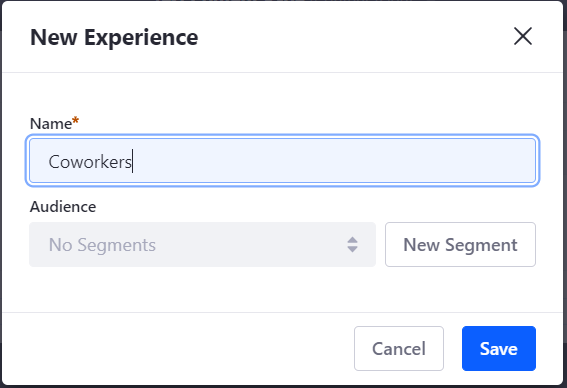
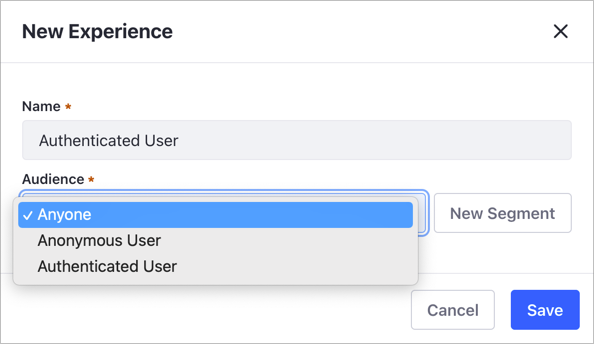
LRDOCS-8864 First draft including 7.4 Experiences functionality.

Changed region(s): [[0.0, 0.0, 1.0, 1.0], [0.8995, 0.0581, 0.9594, 0.1163]]

diff --git a/docs/dxp/7.x/en/site-building/personalizing-site-experience/experience-personalization/content-page-personalization.md b/docs/dxp/7.x/en/site-building/personalizing-site-experience/experience-personalization/content-page-personalization.md
@@ -1,21 +1,57 @@
 # Content Page Personalization and Management
 
-These steps show how to personalize and manage Content Page user experiences based on User Segments.
+You can tailor your Content Page for different groups of users, providing each group a personalized experience, rather than a generic one. You can also leverage Content Page personalization to conduct A/B Testing (for more information, see ).
+
+Personalizing your Content page for different users is a two-step process:
+
+1. Define a Segment for the users you want to provide a personalized experience.
+2. Create a Experience with customized content for your User Segment.
+
+These steps show how to create Experiences based on User Segments.
+
+## Understanding How Experiences Work
+
+You can create different experiences for the same Content Page. For example, for your Segment or authenticated users, you can create different experiences for the holiday and non-holiday seasons. 
+
+- Every Content Page includes a *Default* experience. When you create a new Experience, *Default* is used as a template.
+- You can modify the *Default* experience. Existing experiences based on *Default* will not change.
+- You can duplicate any experience except *Default* (see [Managing Content Page Experiences](#managing-content-page-experiences)).
+- When you have multiple experiences in the same Content Page, their order determines their preference and you may need to modify the order to achieve the desired goal.
+  
+  - Experiences on top of the list have preference over experiences at the bottom.
+  - When a user meets the criteria for more than one Experience, the Experience listed first is the one selected.
+  - New Experiences are listed below the Default experience.
+  - You cannot reorder an experience that is part of an A/B Test, but you can reorder the resrt.
+
+Consider the following example:
+
+  ![The order of the experiences in the user interface determines their preference.](./content-page-personalization/images/06.png)
+
+In the Content Page, we configured three different Experiences:
+
+- *Anonymous User*, which applies to non-authenticated users accesing the Page.
+- *Authenticated User*: Applies to the *Authenticated User* segment.
+- *No Customization*: Applies to the *Anyone* Segment.
+
+In this configuration, a non-authenticated user will see the experience *Anonymous User*. However, authenticated user will not see the experience configured for them (*Authenticated user*), because the *No customization* experience applies to Anyone and is listed first. To present the *Authenticated User*, you need to change the order of the experiences, moving the *Authenticated User* one before the *No customization* one.
 
 ## Creating a New Content Page Experience
 
-1. Navigate to an existing Content Page or [create a new Content Page](../../creating-pages/building-and-managing-content-pages/building-content-pages.md).
-1. At the top of the page, for the *Experience* click on *Default* to open the experience selection dialog.
+1. Go to *Site Administration* &rarr; *Site Builder* &rarr; *Pages*.
+2. Click the Actions (![Actions](../../../images/icon-actions.png)) menu and select *Edit*, or [create a new Content Page](../../creating-pages/building-and-managing-content-pages/building-content-pages.md).
+3. At the top of the page, for the *Experience* click on *Default* to open the experience selection dialog.
 
     ![Click on the current experience to create a new one or select a different existing experience.](./content-page-personalization/images/01.png)
 
-1. Click on *New Experience*.
-1. Give it a name and select the User Segment for the audience you want to cater the experience to, or create a new User Segment if your target audience for the Experience is not yet represented by a User Segment.
+4. Click on *New Experience*.
+5. Enter a name for the Experience and select the User Segment for the audience you want to cater the experience to, or [create a new User Segment].
 
-    ![You can add a new Segment while creating a new Experience.](./content-page-personalization/images/02.png)
+    ![Select an existing Segment for the Experience or create a new Segment.](./content-page-personalization/images/02.png)
 
-1. Modify the page layout and content to display the information you want to show to the selected User Segment.
-1. Click *Publish*.
+
+
+6. Edit your Content Page with the information and layout you want to show to the selected User Segment.
+7. Click *Publish*.
 
 The *Default* version of the page appears for everyone except for members of the selected User Segment, who are presented with a version of the site for their defined User Segment. The example in the figure below creates a new experience for a fictional *Premium Card Prospects* User Segment.
 
@@ -25,7 +61,7 @@ The *Default* version of the page appears for everyone except for members of the
   When you create a new experience, it copies the *Default* experience at the time that it is created. Any further changes to the *Default* experience do not effect any of the experiences for that page.
 ```
 
-## Managing Content Page Personalization
+## Managing Content Page Experiences
 
 When you edit a Content Page, you can click on the *Experience* to manage the options for that page.
 
@@ -47,7 +83,7 @@ From here you have three options:
   Creating new Segments from the New Experience interface is available in Liferay DXP 7.2 Fix Pack 1+ and Liferay Portal 7.2 CE GA2+.
 ```
 
-## Content Page Personalization and A/B Testing
+## Content Page Experiences and A/B Testing
 
 When you [create an A/B Test](../../optimizing-sites/ab-testing/creating-ab-tests.md) in Liferay DXP, you choose an Experience for the test. This Experience can be the Default one, or any other you have created.
 
